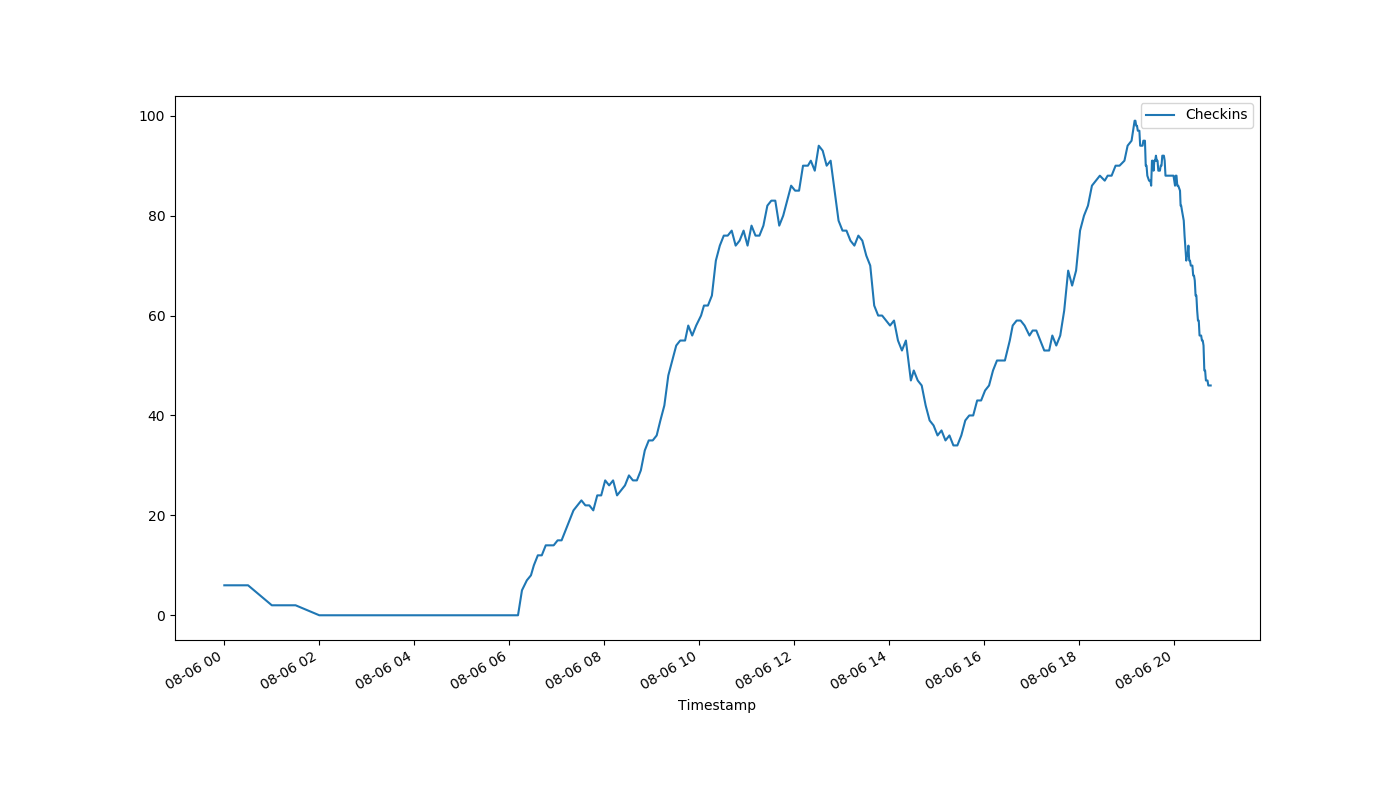
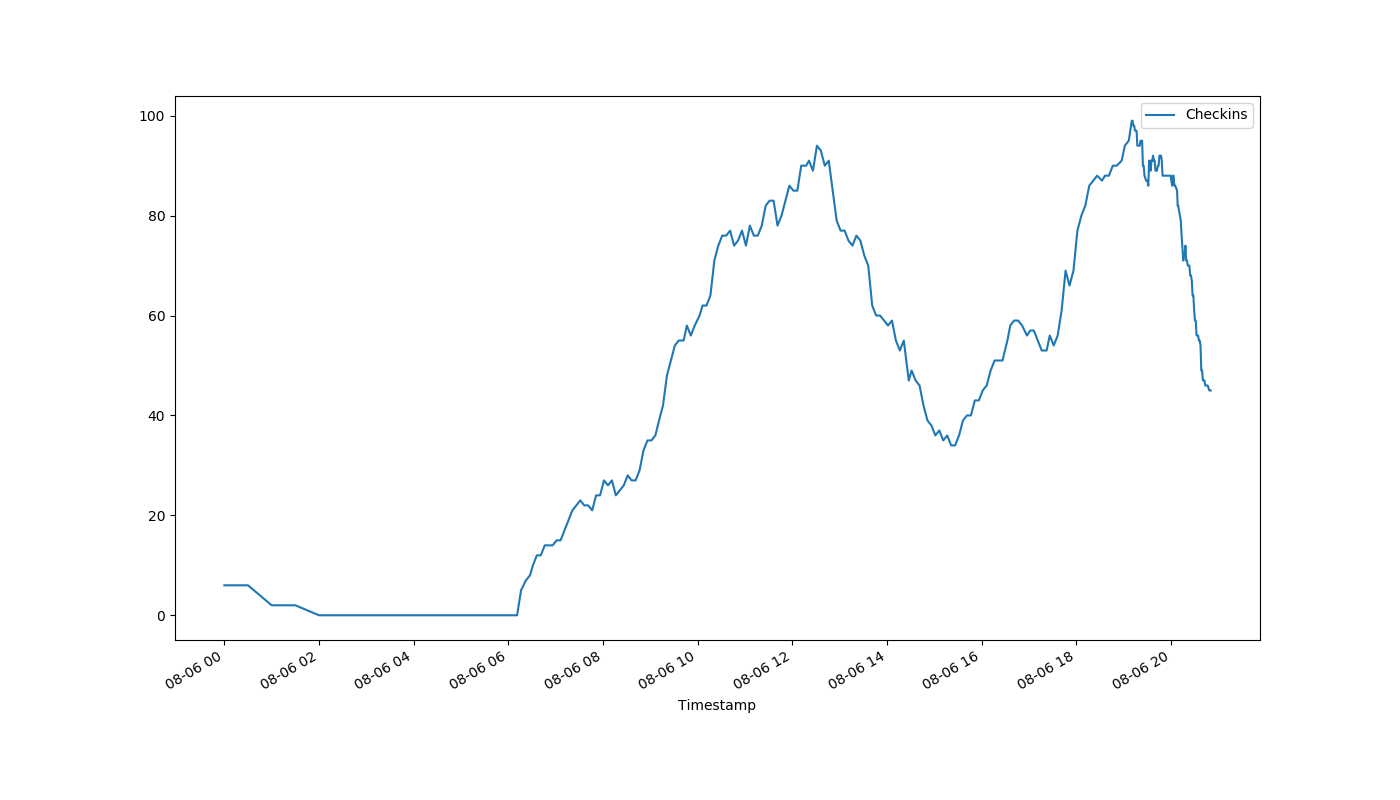
auto-Aug-06-20:50:46

diff --git a/index.html b/index.html
@@ -1,1 +1,1 @@
-<!DOCTYPE html><html><head><meta http-equiv="refresh" content="15"><link rel='stylesheet' href='holmcurrent.css'></head><body><p id='count'>-1</p><div id='graph-wrap'><img id='graph' src='holmgraph-Aug-06.png'></div><p id='updated'>Last updated 20:48:19 / 20:47:17</p></body></html>
+<!DOCTYPE html><html><head><meta http-equiv="refresh" content="15"><link rel='stylesheet' href='holmcurrent.css'></head><body><p id='count'>45</p><div id='graph-wrap'><img id='graph' src='holmgraph-Aug-06.png'></div><p id='updated'>Last updated 20:50:19 / 20:50:08</p></body></html>
